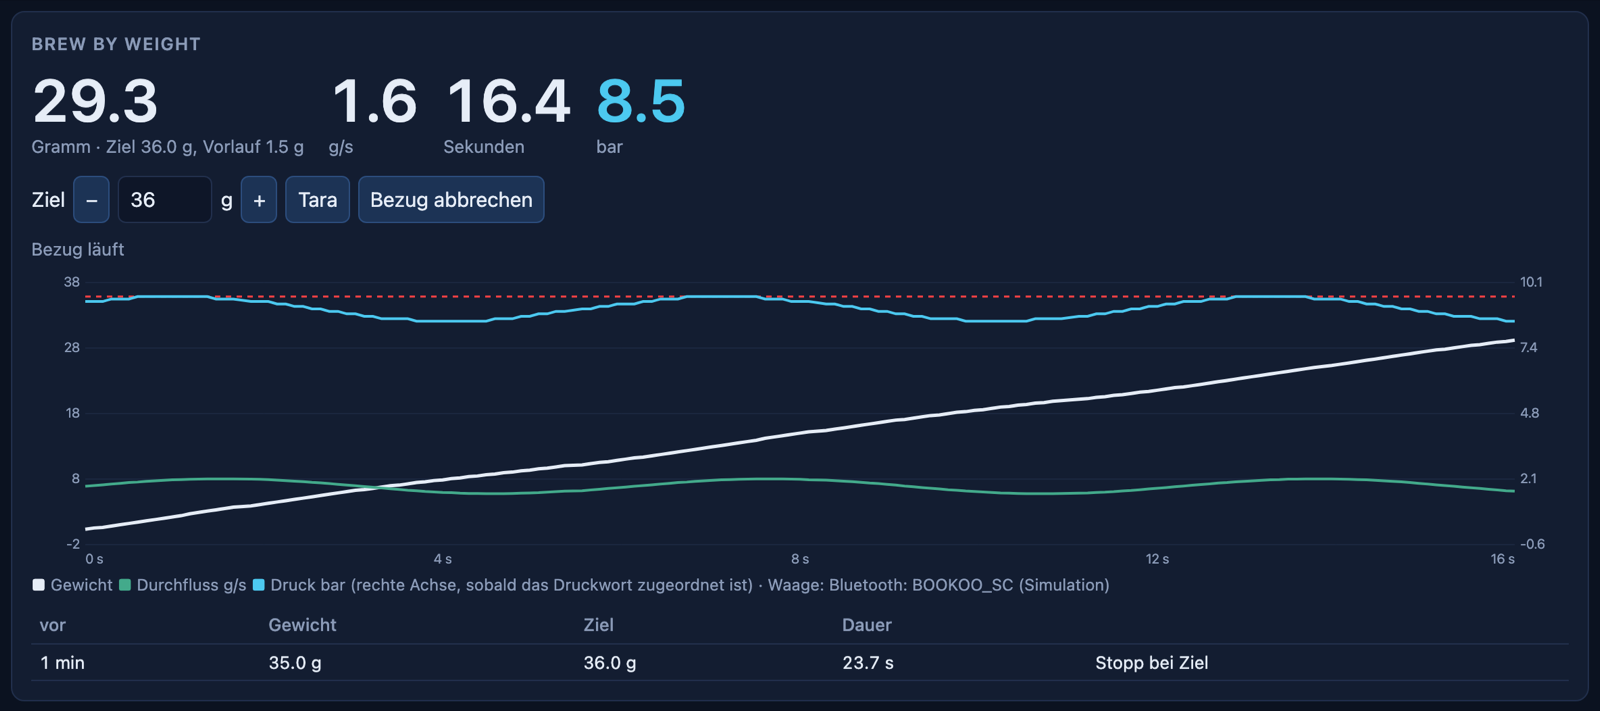
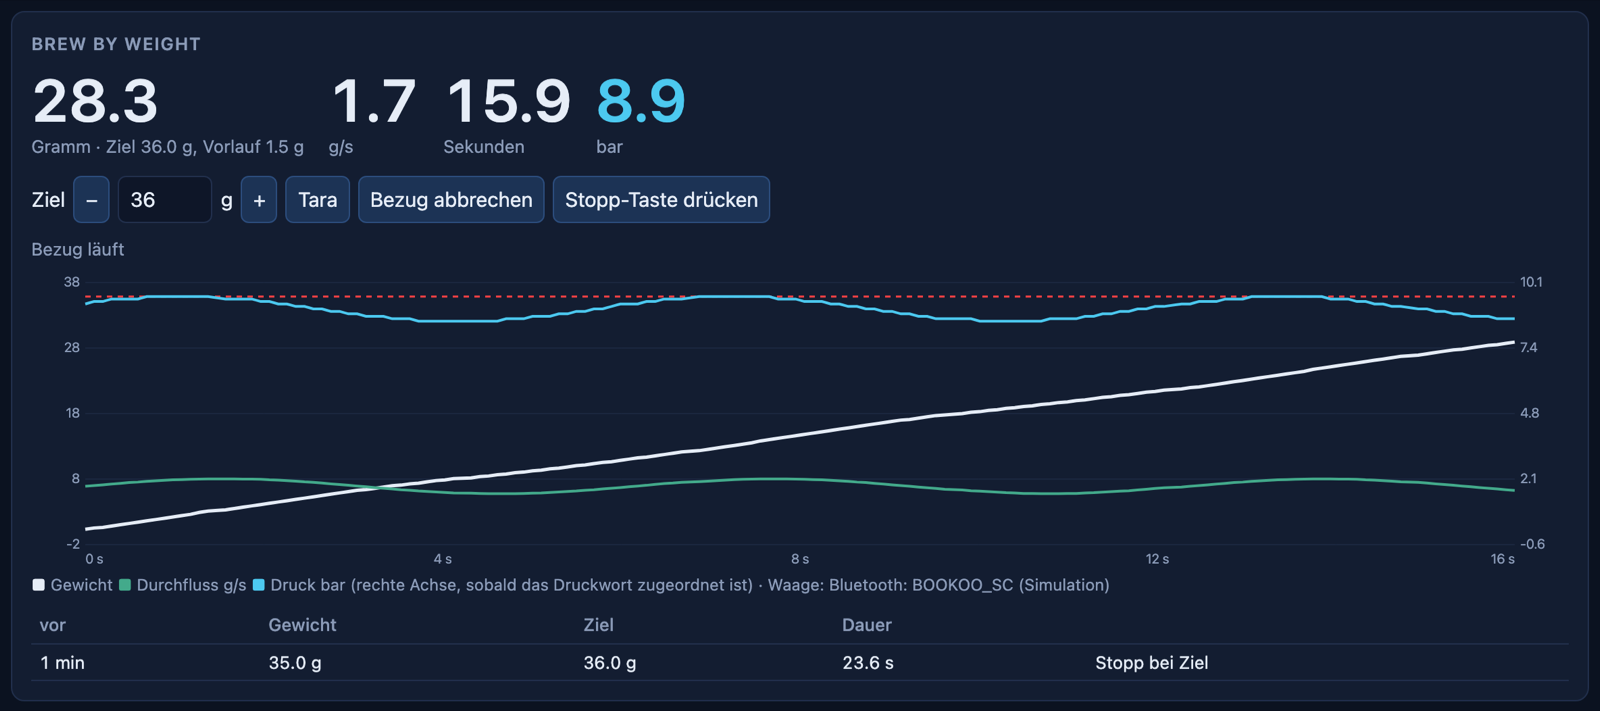
Brew by Weight: Stopp über das Tastenfeld der DE, Abgleich mit Messungen
- Die Duo DE stoppt die Ausgabe über die Taste Dauerausgabe/Stop am
  Tastenfeld (Handbuch 5.4, Stecker KEYBOARD am Mainboard), nicht über
  einen Hebel: Stopp-Ausgang drückt die Taste jetzt kurz (Standard
  300 ms, Optokoppler parallel zur Taste) statt 15 s zu halten
- Aktion "stopp" und Home-Assistant-Knopf "Bezug stoppen"
- Zustand an/Standby aus dem Tastenwert VP 0x0000, den das Display
  nachweislich alle 100 ms meldet, statt aus der Seite
- Seite x06 (nur Pumpendruck-Zeiger, große Zahl) als vermuteter
  Ausgabezähler: startet und hält die Bezugserkennung
- README: Stopp-Abschnitt für die DE neu, Tabelle "Abgleich mit den
  Messungen"; seiten.md zu Seite 6; Screenshots neu

Claude-Session: https://claude.ai/code/session_018WiivMUTBuvnsT2RcvbkJ6

diff --git a/bridge/duo_bridge/zusatz.h b/bridge/duo_bridge/zusatz.h
@@ -18,7 +18,7 @@ struct Einstellungen {
   bool lernen = true;
   int8_t stoppPin = -1;
   bool stoppHigh = true;
-  uint16_t stoppHaltenS = 15;
+  uint16_t stoppPulsMs = 300;  // so lange "drueckt" der Ausgang die Taste
   int8_t druckPWort = -1, druckKWort = -1;  // Wort in VP 0x0050, -1 = noch unbekannt
   uint16_t druckPTeiler = 10, druckKTeiler = 10;
 };
@@ -49,7 +49,7 @@ static void einstellungenLaden() {
   cfg.lernen = p.getBool("lernen", true);
   cfg.stoppPin = p.getChar("stopp_pin", -1);
   cfg.stoppHigh = p.getBool("stopp_high", true);
-  cfg.stoppHaltenS = p.getUShort("stopp_halten", 15);
+  cfg.stoppPulsMs = p.getUShort("stopp_puls", 300);
   cfg.druckPWort = p.getChar("druck_p_wort", -1);
   cfg.druckKWort = p.getChar("druck_k_wort", -1);
   cfg.druckPTeiler = p.getUShort("druck_p_teil", 10);
@@ -75,7 +75,7 @@ static void einstellungenSpeichern() {
   p.putBool("lernen", cfg.lernen);
   p.putChar("stopp_pin", cfg.stoppPin);
   p.putBool("stopp_high", cfg.stoppHigh);
-  p.putUShort("stopp_halten", cfg.stoppHaltenS);
+  p.putUShort("stopp_puls", cfg.stoppPulsMs);
   p.putChar("druck_p_wort", cfg.druckPWort);
   p.putChar("druck_k_wort", cfg.druckKWort);
   p.putUShort("druck_p_teil", cfg.druckPTeiler);
@@ -104,7 +104,7 @@ static bool setzeEinstellung(const String &k, const String &v) {
   else if (k == "lernen") cfg.lernen = v == "1" || v == "on" || v == "true";
   else if (k == "stopp_pin") cfg.stoppPin = stoppPinErlaubt(v.toInt()) ? v.toInt() : -1;
   else if (k == "stopp_high") cfg.stoppHigh = v == "1" || v == "on" || v == "true";
-  else if (k == "stopp_halten") cfg.stoppHaltenS = constrain(v.toInt(), 1, 120);
+  else if (k == "stopp_puls") cfg.stoppPulsMs = constrain(v.toInt(), 50, 3000);
   else if (k == "druck_p_wort") cfg.druckPWort = constrain(v.toInt(), -1, 8);
   else if (k == "druck_k_wort") cfg.druckKWort = constrain(v.toInt(), -1, 8);
   else if (k == "druck_p_teil") cfg.druckPTeiler = max(1L, v.toInt());
@@ -160,17 +160,39 @@ static const char *alarmText(int b) {
   return nullptr;
 }
 
+// Tastenwert VP 0x0000, wie ihn das Display dem Mainboard alle 100 ms meldet
+// (Antworten auf 0x83). Gemessen: 1 nach dem Einschalten (schreibt das
+// Mainboard selbst), 5 nach "OK"; laut Flash 0 nach "Standby". Zuverlaessiger
+// als die Seite: Seitenwechsel per Touch macht das Display ohne Meldung.
+static int32_t tastenwert() {
+  for (size_t i = 0; i < vpAnzahl; i++)
+    if (vpTabelle[i].vp == 0 && vpTabelle[i].len >= 2 && millis() - vpTabelle[i].ms < 3000)
+      return (vpTabelle[i].d[0] << 8) | vpTabelle[i].d[1];
+  return -1;
+}
+
+static bool imStandby() {
+  int32_t t = tastenwert();
+  return t >= 0 ? t == 0 : leitung.seite >= 0 && leitung.seite % 100 == 0;
+}
+
+// Ausgabezaehler: Seite x06 zeigt nur den Pumpendruck-Zeiger und in der Mitte
+// eine grosse Zahl. Laut Handbuch (5.4.4) erscheint waehrend der Ausgabe ein
+// Bildschirm mit Pumpendruck und Ausgabedauer. Vermutung: das ist x06, und das
+// Mainboard schaltet ihn wie die Alarmseiten selbst. Noch nicht mitgeschnitten.
+static bool ausgabeSeite() { return mainboardLebt() && leitung.seite >= 0 && leitung.seite % 100 == 6; }
+
 // Kurzer Zustand fuer Weboberflaeche und Home Assistant.
 static String maschinenStatus() {
   if (!mainboardLebt()) return "keine Verbindung";
-  if (leitung.seite < 0) return "unbekannt";
-  int b = leitung.seite % 100;
-  if (b == 0) return "Standby";
+  int b = leitung.seite >= 0 ? leitung.seite % 100 : -1;
   if (b == 90) return "startet";
-  if (const char *a = alarmText(b)) return String("Alarm: ") + a;
-  return "an";
+  if (const char *a = b >= 0 ? alarmText(b) : nullptr) return String("Alarm: ") + a;
+  if (imStandby()) return "Standby";
+  if (b == 6) return "Ausgabe";
+  return leitung.seite >= 0 || tastenwert() >= 0 ? "an" : "unbekannt";
 }
-static bool maschineAn() { return mainboardLebt() && leitung.seite >= 0 && leitung.seite % 100 != 0; }
+static bool maschineAn() { return mainboardLebt() && !imStandby() && (leitung.seite >= 0 || tastenwert() >= 0); }
 static const char *aktuellerAlarm() { return mainboardLebt() && leitung.seite >= 0 ? alarmText(leitung.seite % 100) : nullptr; }
 
 // Ein/Aus wie die Tasten am Display (Touch-Konfiguration 13.bin):
@@ -279,9 +301,12 @@ static volatile bool waageTaraBle = false;  // die Waage-Task schickt Tara an di
 
 // ─── Brew by Weight ────────────────────────────────────────────────────────
 // Bezug erkennt die Bridge selbst: Das Gewicht steigt gleichmaessig (erste
-// Tropfen) oder, sobald das Druckwort bekannt ist, der Pumpendruck steigt.
+// Tropfen), der Pumpendruck steigt (sobald das Druckwort bekannt ist) oder
+// das Mainboard zeigt den Ausgabezaehler (Seite x06, Vermutung).
 // Ziel erreicht (Gewicht + Vorlauf >= Ziel) heisst: Meldung an Web und Home
-// Assistant und, wenn eingerichtet, der Stopp-Ausgang schaltet. Der Vorlauf
+// Assistant und, wenn eingerichtet, "drueckt" der Stopp-Ausgang kurz die Taste
+// Dauerausgabe/Stop am Tastenfeld der DE; das Mainboard beendet die Ausgabe
+// dann selbst (Handbuch 5.4). Der Vorlauf
 // (was nach dem Stopp noch nachtropft) lernt sich aus jedem Bezug.
 
 struct BezugPunkt {
@@ -390,7 +415,7 @@ static void bezugPunkt() {
                            (int16_t)(isnan(p) ? INT16_MIN : lroundf(p * 10)), (int16_t)(isnan(t) ? INT16_MIN : t)};
 }
 
-// Laeuft in loop(): neue Waagenwerte uebernehmen, Bezug fuehren, Stopp halten.
+// Laeuft in loop(): neue Waagenwerte uebernehmen, Bezug fuehren, Stopp-Tastendruck beenden.
 static void bezugLoop() {
   static uint32_t gesehenNr = 0;
   uint32_t nr, ms;
@@ -399,10 +424,7 @@ static void bezugLoop() {
   nr = waageNr; ms = waageMs; roh = waageRoh;
   portEXIT_CRITICAL(&waageMux);
 
-  if (stoppAktiv && millis() - stoppSeitMs > cfg.stoppHaltenS * 1000UL) {
-    stoppAusgang(false);
-    ereignis("- Stopp-Ausgang frei");
-  }
+  if (stoppAktiv && millis() - stoppSeitMs > cfg.stoppPulsMs) stoppAusgang(false);
   float p = druckPumpe();
   if (nr == gesehenNr) {
     // ohne neue Waagenwerte: Bezug nach 5 s ohne Waage beenden
@@ -419,7 +441,7 @@ static void bezugLoop() {
     else if (millis() - bezugRuhigSeit > 1500) bezugBasis = g;  // ruhig: neue Nulllinie (Tasse steht)
     float d1 = g - waageVor(500), d2 = waageVor(500) - waageVor(1000);
     bool tropft = g - bezugBasis > 0.5f && d1 > 0.15f && d2 > 0.15f && d1 + d2 < 12;  // gleichmaessig, kein Sprung
-    bool druck = !isnan(p) && p >= 2.0f;
+    bool druck = (!isnan(p) && p >= 2.0f) || ausgabeSeite();
     if (tropft || druck) bezugStarten(tropft && !druck ? 1000 : 0);
     else return;
   }
@@ -435,7 +457,7 @@ static void bezugLoop() {
   }
   // Ende: 3 s kein Durchfluss (und kein Pumpendruck, falls bekannt)
   static uint32_t stillSeit = 0;
-  bool still = dauer > 5000 && fabsf(fluss) < 0.15f && (isnan(p) || p < 0.5f);
+  bool still = dauer > 5000 && fabsf(fluss) < 0.15f && (isnan(p) || p < 0.5f) && !ausgabeSeite();
   if (!still) stillSeit = 0;
   else if (!stillSeit) stillSeit = millis();
   if (bezugG < -5) bezugBeenden(true);  // Tasse weggenommen
@@ -453,12 +475,17 @@ static void waageTara() {
   waageHistN = 0;
 }
 
-// Aktionen fuer Web, USB und MQTT: "an", "aus", "tara", "abbruch", "frei", "ziel <g>"
+// Aktionen fuer Web, USB und MQTT: "an", "aus", "tara", "abbruch", "stopp", "ziel <g>"
 static bool aktion(const String &a) {
   if (a == "an" || a == "aus") maschineSchalten(a == "an");
   else if (a == "tara") waageTara();
   else if (a == "abbruch") { if (bezugZustand == BZ_LAEUFT) bezugBeenden(true); }
-  else if (a == "frei") { stoppAusgang(false); ereignis("- Stopp-Ausgang frei (von Hand)"); }
+  else if (a == "stopp") {  // Stopp-Taste von Hand, z. B. aus Home Assistant
+    if (cfg.stoppPin < 0) return false;
+    stoppSeitMs = millis();
+    stoppAusgang(true);
+    ereignis("- Stopp-Taste gedrueckt (von Hand)");
+  }
   else if (a.startsWith("ziel ")) {
     cfg.ziel = constrain(zahlAus(a.substring(5), cfg.ziel), 0.0f, 200.0f);
     einstellungenSpeichern();

diff --git a/bridge/duo_bridge/web_ui.h b/bridge/duo_bridge/web_ui.h
@@ -95,7 +95,7 @@ button:disabled{opacity:.4;cursor:default}
       <div><div class="wert" id="bw_p" style="color:var(--akzent)">–</div><div class="einheit">bar</div></div>
     </div>
     <div class="form" style="margin-top:12px">Ziel <button onclick="zielAendern(-1)">−</button><input id="bw_ziel" style="width:70px" onchange="aktion('ziel '+v('bw_ziel'))"> g<button onclick="zielAendern(1)">+</button>
-      <button onclick="aktion('tara')">Tara</button><button onclick="aktion('abbruch')">Bezug abbrechen</button><button id="bw_frei" onclick="aktion('frei')" style="display:none">Stopp freigeben</button></div>
+      <button onclick="aktion('tara')">Tara</button><button onclick="aktion('abbruch')">Bezug abbrechen</button><button id="bw_stopp" onclick="aktion('stopp')" style="display:none">Stopp-Taste drücken</button></div>
     <div id="bw_meldung" class="einheit"></div>
     <canvas id="bw_kurve" width="600" height="220" style="height:220px;margin-top:8px"></canvas>
     <p class="hinweis"><span style="color:#e6edf7">■</span> Gewicht <span style="color:var(--ok)">■</span> Durchfluss g/s <span style="color:var(--akzent)">■</span> Druck bar (rechte Achse, sobald das Druckwort zugeordnet ist) · Waage: <span id="bw_waage">–</span></p>
@@ -138,9 +138,9 @@ button:disabled{opacity:.4;cursor:default}
     <div class="form">URL <input name="waage_url" class="breit" placeholder="http://waage.local/sensor/gewicht"></div>
     <div class="form">MQTT-Thema <input name="waage_topic" class="breit" placeholder="waage/gewicht"></div>
     <div class="form">Vorlauf <input name="vorlauf" style="width:60px"> g <label><input type="checkbox" name="lernen" style="width:auto"> aus jedem Bezug lernen</label></div>
-    <h3 class="hinweis" style="margin:10px 0 4px">Stopp-Ausgang (optional, Hardware)</h3>
+    <h3 class="hinweis" style="margin:10px 0 4px">Stopp-Taste am Tastenfeld (optional, Hardware)</h3>
     <div class="form">GPIO <select name="stopp_pin"><option value="-1">keiner, nur melden</option><option>1</option><option>2</option><option>38</option><option>39</option><option>40</option><option>41</option><option>42</option><option>47</option><option>48</option></select>
-      <label><input type="checkbox" name="stopp_high" style="width:auto"> aktiv high</label> halten <input name="stopp_halten" style="width:50px"> s</div>
+      <label><input type="checkbox" name="stopp_high" style="width:auto"> aktiv high</label> Tastendruck <input name="stopp_puls" style="width:60px"> ms</div>
     <h3 class="hinweis" style="margin:10px 0 4px">Druck (Wort in VP 0x0050)</h3>
     <div class="form">Pumpe <select name="druck_p_wort"></select> ÷ <input name="druck_p_teil" style="width:60px"></div>
     <div class="form">Servicekessel <select name="druck_k_wort"></select> ÷ <input name="druck_k_teil" style="width:60px"></div>
@@ -896,7 +896,7 @@ async function holeBezug(){
 
 function einstellungenFuellen(c,vp50){
   const f=$("einst");
-  for(const k of ["mqtt_uri","mqtt_user","ha_prefix","waage_art","waage_url","waage_topic","waage_ble","vorlauf","stopp_pin","stopp_halten","druck_p_teil","druck_k_teil"]) if(f[k]) f[k].value=c[k];
+  for(const k of ["mqtt_uri","mqtt_user","ha_prefix","waage_art","waage_url","waage_topic","waage_ble","vorlauf","stopp_pin","stopp_puls","druck_p_teil","druck_k_teil"]) if(f[k]) f[k].value=c[k];
   f.lernen.checked=c.lernen; f.stopp_high.checked=c.stopp_high;
   f.mqtt_pass.placeholder=c.mqtt_pass_gesetzt?"gesetzt (leer = unverändert, - = löschen)":"kein Passwort";
   for(const n of ["druck_p_wort","druck_k_wort"]){
@@ -924,7 +924,7 @@ async function holeZusatz(){
     $("bw_waage").textContent=zj.waage.status;
     $("bw_meldung").textContent=b.laeuft?(b.stopp_gesendet?"Ziel erreicht – Bezug stoppen!":"Bezug läuft"):zj.cfg.waage_art?"bereit: Bezug startet, sobald es in die Tasse tropft":"Waage ist aus (Einstellungen)";
     $("bw_meldung").className=b.laeuft&&b.stopp_gesendet?"alarm einheit":"einheit";
-    $("bw_frei").style.display=b.stopp_aktiv?"":"none";
+    $("bw_stopp").style.display=zj.cfg.stopp_pin>=0?"":"none";
     $("bw_liste").innerHTML=b.liste.map(x=>`<tr><td>${x.alter_s<3600?Math.round(x.alter_s/60)+" min":Math.round(x.alter_s/3600)+" h"}</td><td>${f1(x.g)} g</td><td>${f1(x.ziel)} g</td><td>${f1(x.dauer)} s</td><td>${x.gestoppt?"Stopp bei Ziel":""}</td></tr>`).join("");
     if(!einstGeladen&&!$("einst").contains(document.activeElement)){einstellungenFuellen(zj.cfg,letzterStatus&&letzterStatus.vps.find(x=>x.vp==0x50)); einstGeladen=true}
     if(b.laeuft||b.nr!=bezugNr) holeBezug();

diff --git a/bridge/duo_bridge/ha_mqtt.h b/bridge/duo_bridge/ha_mqtt.h
@@ -10,7 +10,7 @@
 //   duo/<id>/verfuegbar   online/offline (Last Will)
 //   duo/<id>/ereignis     bezug_start, ziel_erreicht, bezug_fertig
 //   duo/<id>/set/maschine ON/OFF    duo/<id>/set/ziel <g>
-//   duo/<id>/set/tara     beliebig  duo/<id>/set/aktion an|aus|tara|abbruch|frei
+//   duo/<id>/set/tara     beliebig  duo/<id>/set/aktion an|aus|tara|abbruch|stopp
 
 #include <mqtt_client.h>
 
@@ -125,6 +125,7 @@ static void haDiscovery() {
   haEntitaet("sensor", "bezuege", "Bezüge", "\"stat_cla\":\"total_increasing\",\"ic\":\"mdi:counter\",\"val_tpl\":\"{{ value_json.bezuege }}\"", cfg.waageArt);
   haEntitaet("number", "ziel", "Zielgewicht", "\"cmd_t\":\"~/set/ziel\",\"min\":5,\"max\":100,\"step\":0.5,\"unit_of_meas\":\"g\",\"ic\":\"mdi:scale\",\"val_tpl\":\"{{ value_json.ziel }}\"", cfg.waageArt);
   haEntitaet("button", "tara", "Tara", "\"cmd_t\":\"~/set/tara\",\"ic\":\"mdi:scale-balance\"", cfg.waageArt);
+  haEntitaet("button", "stopp", "Bezug stoppen", "\"cmd_t\":\"~/set/aktion\",\"payload_press\":\"stopp\",\"ic\":\"mdi:stop\"", cfg.stoppPin >= 0);
   haEntitaet("sensor", "waage", "Waage", "\"ent_cat\":\"diagnostic\",\"val_tpl\":\"{{ value_json.waage }}\"");
   mqttSenden(mqttBasis + "/verfuegbar", "online", true);
 }
@@ -287,8 +288,8 @@ static String zusatzJson() {
   j += cfg.stoppPin;
   j += ",\"stopp_high\":";
   j += cfg.stoppHigh ? "true" : "false";
-  j += ",\"stopp_halten\":";
-  j += cfg.stoppHaltenS;
+  j += ",\"stopp_puls\":";
+  j += cfg.stoppPulsMs;
   j += ",\"druck_p_wort\":";
   j += cfg.druckPWort;
   j += ",\"druck_p_teil\":";

diff --git a/bridge/duo_bridge/web.h b/bridge/duo_bridge/web.h
@@ -12,7 +12,7 @@
 // GET  /api/zusatz        JSON: Maschine, Waage, Bezug, MQTT, Einstellungen
 // GET  /api/verlauf       ?sek=3600&max=720: VP 0x0050 je Sekunde (zusatz.h)
 // GET  /api/bezug         Kurve des laufenden bzw. letzten Bezugs
-// POST /api/aktion        an | aus | tara | abbruch | frei | ziel <g>
+// POST /api/aktion        an | aus | tara | abbruch | stopp | ziel <g>
 // POST /api/einstellungen feld=wert&... (URL-kodiert)
 // POST /api/waage         Gewicht in g von einer WLAN-Waage (auch GET ?g=)
 //
@@ -207,7 +207,7 @@ static int zusatzApi(const String &pfad, const String &query, const String &rump
       String k = urlDecode(paar.substring(0, g)), v = urlDecode(paar.substring(g + 1));
       v.trim();
       if (!setzeEinstellung(k, v)) continue;
-      if (k.startsWith("mqtt_") || k == "ha_prefix" || k.startsWith("druck_") || k.startsWith("waage_")) mqttNeuStart = true;
+      if (k.startsWith("mqtt_") || k == "ha_prefix" || k.startsWith("druck_") || k.startsWith("waage_") || k == "stopp_pin") mqttNeuStart = true;
       if (k == "stopp_pin" && cfg.stoppPin >= 0) pinMode(cfg.stoppPin, OUTPUT);
     }
     einstellungenSpeichern();

diff --git a/tools/web_demo.py b/tools/web_demo.py
@@ -24,7 +24,7 @@ class Demo:
         self.ereignisse: list[str] = []
         self.cfg = {"mqtt_uri": "", "mqtt_user": "", "mqtt_pass_gesetzt": False, "ha_prefix": "homeassistant",
                     "waage_art": 1, "waage_url": "", "waage_topic": "", "waage_ble": "", "ziel": 36.0,
-                    "vorlauf": 2.0, "lernen": True, "stopp_pin": -1, "stopp_high": True, "stopp_halten": 15,
+                    "vorlauf": 2.0, "lernen": True, "stopp_pin": -1, "stopp_high": True, "stopp_puls": 300,
                     "druck_p_wort": -1, "druck_p_teil": 10, "druck_k_wort": -1, "druck_k_teil": 10}
         self.verlauf: list[tuple[float, list[int]]] = []
         self.bezug: list[list] = []

diff --git a/README.md b/README.md
@@ -176,7 +176,8 @@ Belegung laut Deckelaufkleber: Relaisausgänge 1 Heizung Gruppe, 2 EV Wassernetz
 3 EV Tank, 4 EV Füllen (Dampfkessel), 5 EV Gruppe, 6 Pumpe, 7 Common · Fühler NTC
 Gruppe, NTC Kaffee, NTC Dampf, SSR Kaffee, SSR Dampf · **PRESS.** Drucksensor ·
 **CAP. SENS** kapazitiver Füllstand · Klemmblock Durchflussmesser, Microswitch
-(Hebel), S.LIV · LED FRONT/RETRO · KEYBOARD. Das Mainboard ist also der Master
+(Hebel, nur MN), S.LIV · LED FRONT/RETRO · **KEYBOARD** (graues Flachbandkabel
+zum Tastenfeld der DE). Das Mainboard ist also der Master
 und hält PID, Sollwerte, Passwörter und Chrono — ein Mainboard-Reset setzt die
 Passwörter auf 1901/1906.
 
@@ -241,7 +242,7 @@ Tastencode.
 | `0x0000` | Mainboard liest | 100 ms | Tastencode des Displays (Navigation, Aktionen) |
 | `0x0001` | Mainboard liest | 100 ms | zweiter Tastencode (selten) |
 | `0x0002` | Mainboard liest | auf Einstellseiten | „OK“ in Einstellungen |
-| `0x0050` | Mainboard schreibt | ~300 ms | 9 Worte Status: **Wort 3 Kaffeekessel °C, Wort 4 Servicekessel °C**; Wort 2 wird nach Seite 103 zu 1, Wort 7 = 3; Wort 0, 1, 5, 6, 8 bisher 0 (kalte Maschine) — dort werden die Drücke vermutet |
+| `0x0050` | Mainboard schreibt | ~300 ms | 9 Worte Status: **Wort 3 Kaffeekessel °C, Wort 4 Servicekessel °C**; Wort 2 wird nach Seite 103 zu 1, Wort 7 = 3, Wort 5 war einmal für 1 s auf 1; Wort 0, 1, 6, 8 bisher 0 (kalte Maschine, leerer Tank) — dort werden die Drücke vermutet |
 | `0x0063` | Mainboard schreibt | beim Start | Firmware-Version Mainboard × 10 (21 → „FW: 2.1“) |
 
 **Drücke:** Der Startbildschirm hat laut Handbuch zwei Druckanzeigen, links
@@ -486,13 +487,33 @@ Weboberfläche und liegen im NVS des ESP32, nie im Quelltext.
 | **Home Assistant** | MQTT mit Discovery, siehe unten | kompiliert, gegen einen Broker offen |
 | **Verlauf** | VP `0x0050` einmal je Sekunde in einem Ringpuffer, 24 h mit PSRAM (sonst 30 min); Kurve 10 min bis 24 h | mit Simulation geprüft |
 | **Druckkurven** | sobald bekannt ist, welches Wort in VP `0x0050` den Druck trägt: „Rohworte zeigen“ im Verlauf, Pumpe laufen lassen, steigendes Wort unter Einstellungen eintragen | Wort noch unbekannt |
-| **Brew by Weight** | Bluetooth- oder WLAN-Waage, Bezug wird erkannt, Kurve aus Gewicht, Durchfluss und Druck, Stopp bei Ziel minus gelerntem Vorlauf | Protokolle aus Quellen, mit echter Waage offen |
+| **Brew by Weight** | Bluetooth- oder WLAN-Waage, Bezug wird erkannt, Kurve aus Gewicht, Durchfluss und Druck, Stopp bei Ziel minus gelerntem Vorlauf über die Stopp-Taste des Tastenfelds | Protokolle aus Quellen, mit echter Waage offen; Anschluss am Tastenfeld noch zu messen |
 | **Bezüge zählen, Alarme melden** | Zähler im NVS, Alarmseiten (Tank, Wartung, Filter …) als Zustand und Alarm | mit Simulation geprüft |
 
 <p align="center">
   <img src="docs/screenshots/zusatz_rohworte.png" alt="Verlauf mit allen neun Rohworten von VP 0x0050; in der Simulation steigt Wort 1 bei laufender Pumpe" width="800" /><br />
   <sub>Druckwort suchen: „Rohworte zeigen“ im Verlauf. Hier in der Simulation steigt Wort 1 bei laufender Pumpe.</sub>
 </p>
+
+### Abgleich mit den Messungen
+
+Alle Mitschnitte in [`captures/`](captures/) stammen von der kalten Maschine mit
+leerem Tank (Temperaturen 22–36 °C, Seite 103 „Bitte Tank füllen“). Ein Bezug
+ist noch nie auf der Leitung gewesen. Daraus folgt:
+
+| Annahme der Zusatzfunktionen | gemessen / belegt | offen |
+|---|---|---|
+| Ein = VP `0x0000` → 1 | Das Mainboard schreibt beim Einschalten selbst VP `0x0000` = 1 (`boot.sr`); Taste „Für Start drücken“ schreibt 1 (Flash, DE und IT) | ob das Mainboard auf eine von außen gesetzte 1 reagiert |
+| Standby = VP `0x0000` → 0 | Taste „Standby“ im Seitenmenü schreibt 0 (Flash, alle drei Sprachen) | nie mitgeschnitten |
+| Zustand aus dem Tastenwert | Das Display meldet VP `0x0000` alle 100 ms (`boot.sr`, `home.sr`, `tank.sr`); nach „OK“ blieb er auf 5 stehen | — |
+| Alarme aus der Seite | Seite 103 schaltet das Mainboard selbst (Register `0x03`, `boot.sr`) | andere Alarme |
+| Druckwort in VP `0x0050` | Wort 0, 1, 6, 8 immer 0 — die Pumpe lief nie | welches Wort bei laufender Pumpe steigt |
+| Ausgabezähler auf Seite x06 | Foto der Seite 106: nur Zeiger Pumpendruck und große Zahl; Handbuch 5.4.4 | ob das Mainboard beim Bezug dorthin schaltet, welche VP die Zeit trägt |
+| Stopp über das Tastenfeld | Handbuch 5.4; Stecker KEYBOARD am Mainboard (Foto) | Belegung des Flachbandkabels |
+
+Den Zustand „an/Standby“ liest die Bridge deshalb am Tastenwert, nicht an der
+Seite: Seitenwechsel per Touch macht das Display ohne Meldung ans Mainboard.
+Der nächste Mitschnitt sollte ein ganzer Bezug mit vollem Tank sein.
 
 ### Home Assistant
 
@@ -546,7 +567,8 @@ automation:
 | WLAN: URL abfragen | alles mit HTTP-Schnittstelle, z. B. ESPHome mit HX711 (`http://waage.local/sensor/gewicht`) | Antwort als Zahl oder JSON mit `value`, `weight` oder `gewicht`, etwa 8 Abfragen je Sekunde |
 | WLAN: Waage meldet selbst | `POST http://duo.local/api/waage` mit dem Gewicht in g, oder ein MQTT-Thema | Tara für WLAN-Waagen macht die Bridge selbst |
 
-**Ablauf:** Tasse auf die Waage, Bezug wie gewohnt am Hebel starten. Die Bridge
+**Ablauf:** Tasse auf die Waage, Bezug mit der Dauerausgabe-Taste starten
+(Portionstasten gehen auch, dann stoppt zusätzlich die Volumetrik). Die Bridge
 erkennt den Bezug an den ersten Tropfen (gleichmäßig steigendes Gewicht, kein
 Sprung) oder, sobald das Druckwort bekannt ist, am Pumpendruck. Die Zeit zählt
 ab da. Erreicht Gewicht + Vorlauf das Ziel, kommt die Meldung „Ziel erreicht –
@@ -554,16 +576,36 @@ Bezug stoppen!“ in der Weboberfläche und als Ereignis `ziel_erreicht` in Home
 Assistant. Nach dem Bezug lernt die Bridge den Vorlauf (was nach dem Stopp noch
 nachtropft) mit halber Schrittweite nach.
 
-**Selbst stoppen kann die Bridge über die Displayleitung nicht:** Bezug und
-Pumpe schaltet der Hebel über den Microswitch am Mainboard (Klemme 4 am
-5-poligen Block), das Display hat dafür keine Taste. Wer automatisch stoppen
-will, braucht Hardware: Unter „Stopp-Ausgang“ einen freien GPIO wählen (1, 2,
-38–42, 47, 48). Er schaltet bei Ziel für die eingestellte Haltezeit, zum
-Beispiel ein Optokoppler- oder Relaismodul, das den Microswitch-Kreis
-unterbricht. **Das ist ungetestet:** vorher die Klemme am stromlosen Mainboard
-durchmessen (Kleinspannung? welcher Pegel?), nie auf der 230-V-Seite
-eingreifen. Bleibt der Hebel nach der Haltezeit oben, läuft die Pumpe weiter —
-Haltezeit länger wählen als man zum Hebelsenken braucht.
+**Stoppen über das Tastenfeld.** Die DE hat ein Tastenfeld mit fünf Tasten:
+vier Portionen (volumetrisch über den Durchflussmesser) und die Taste
+Dauerausgabe/Programmierung/Stop. Laut Handbuch (5.4) beendet ein erneuter
+Druck auf die Dauerausgabe-Taste die Ausgabe, das Mainboard stoppt die Pumpe
+dann selbst. Das Tastenfeld hängt über das graue Flachbandkabel direkt am
+Stecker **KEYBOARD** des Mainboards, nicht an der Displayleitung. Die Tasten
+selbst kommen über die Displayleitung also nicht an; die Bridge muss die Taste
+elektrisch „drücken“:
+
+- Unter „Stopp-Taste am Tastenfeld“ einen freien GPIO wählen (1, 2, 38–42, 47, 48).
+  Bei Ziel schaltet er für die eingestellte Dauer (Standard 300 ms), also ein
+  kurzer Tastendruck. Home Assistant bekommt dazu den Knopf „Bezug stoppen“.
+- Am GPIO ein **Optokoppler** (z. B. PC817 mit 330 Ω vor der LED), dessen
+  Ausgang parallel zu den beiden Kontakten der Dauerausgabe-Taste liegt. Der
+  Optokoppler trennt ESP32 und Mainboard galvanisch; die Taste selbst funktioniert
+  weiter.
+- **Noch offen, vor dem Anschließen messen:** Belegung des Flachbandkabels
+  (Einzeltasten gegen eine gemeinsame Leitung oder Matrix), Pegel und Polarität
+  an der Taste. Maschine dafür ausschalten und am stromlosen Kabel mit dem
+  Durchgangsprüfer die Kontakte der Taste suchen. Das Tastenfeld arbeitet mit
+  Kleinspannung vom Mainboard; nie auf der 230-V-Seite eingreifen.
+
+Ohne diesen Anschluss meldet die Bridge „Ziel erreicht – Bezug stoppen!“ in der
+Weboberfläche und als Ereignis in Home Assistant, gedrückt wird von Hand.
+
+Zusätzlich ungeklärt: Laut Handbuch (5.4.4) zeigt das Display während der
+Ausgabe einen Bildschirm mit Pumpendruck und Ausgabedauer. Das Mainboard
+schickt beides also über die Displayleitung. Ein Mitschnitt während eines
+Bezugs zeigt, welche Seite und welche Worte das sind — dann erkennt die Bridge
+den Bezug direkt am Mainboard statt an der Waage.
 
 ---
 
@@ -599,8 +641,9 @@ Tests: `python3 -m unittest discover -s tests`
    (5-V-Budget prüfen) und feste Verkabelung statt Breadboard.
 4. **Mehr als das Display an der Maschine prüfen:** Ein/Aus, Druckwort in VP
    `0x0050` finden (Rohworte im Verlauf), Home Assistant gegen den Broker,
-   Brew by Weight mit einer echten Waage; für den automatischen Stopp den
-   Microswitch-Kreis durchmessen.
+   Brew by Weight mit einer echten Waage; einen Bezug mitschneiden (Seite und
+   Worte für Pumpendruck und Ausgabedauer); für den automatischen Stopp die
+   Dauerausgabe-Taste im Flachbandkabel des Tastenfelds durchmessen.
 5. **Variablen-Konfiguration (`14.bin`)** ebenfalls aus dem Flash lesen: Sie sagt,
    welche VP an welcher Stelle angezeigt wird — damit auch die Sollwerte auf den
    Kaffee- und Tee-Seiten.

diff --git a/docs/seiten.md b/docs/seiten.md
@@ -36,7 +36,7 @@ Beim Einschalten zeigt das Mainboard Seite 90 (Startbild mit „TFT 2.0“ und
 | 2 | Alarm: Loading time out, restart loading |
 | 3 | Alarm: Please fill water tank |
 | 4 | Alarm: NTC failure |
-| 5, 6 | Startbildschirm, Varianten (6 mit nur einem Zeiger) |
+| 5, 6 | Startbildschirm, Varianten. 6 hat nur den Zeiger Pumpendruck 0–10 bar und eine große Zahl in der Mitte: vermutlich der Ausgabezähler (Pumpendruck und Ausgabedauer während des Bezugs, Handbuch 5.4.4) |
 | 7 | Coffee settings: Boiler an/aus, Priority, Temperatur, Group, Wetting |
 | 8 | Tea settings: Temperatur |
 | 9, 11 | Boiler priority: Coffee / Service / None |
